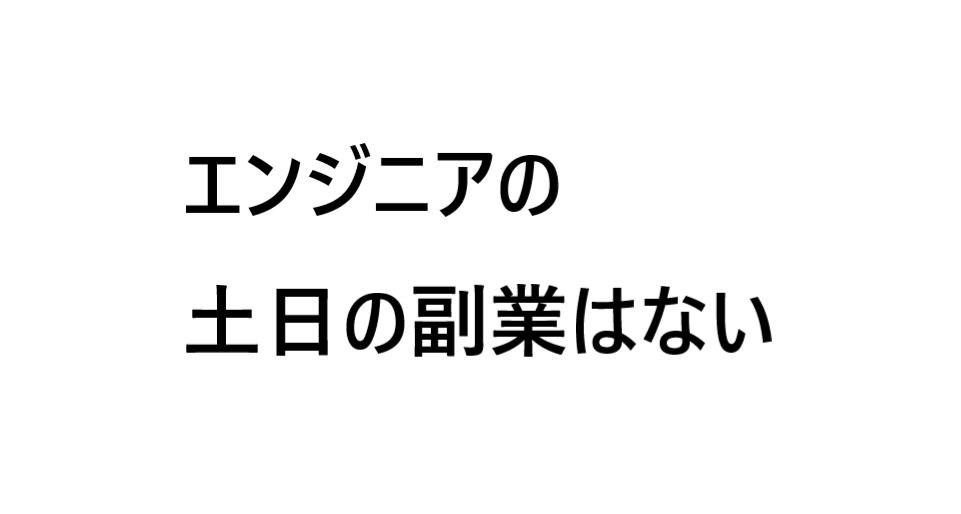
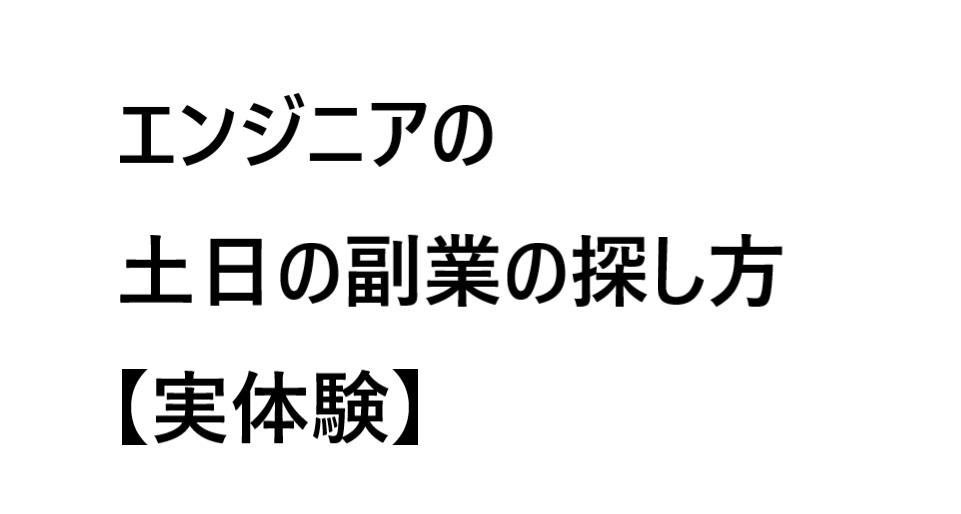
fix

Changed region(s): [[0.1249, 0.1868, 0.8117, 0.716], [0.1249, 0.716, 0.437, 0.8716]]

diff --git a/presentations/pages/index.tsx b/presentations/pages/index.tsx
@@ -10,6 +10,7 @@ type Props = {
   editorCategoryPosts: PostType[];
   blogCategoryPosts: PostType[];
   healthCategoryPosts: PostType[];
+  sideworkCategoryPosts: PostType[];
 };
 
 const useStyles = makeStyles((theme: Theme) =>
@@ -33,6 +34,7 @@ export const Index = ({
   treemapData,
   healthCategoryPosts,
   blogCategoryPosts,
+  sideworkCategoryPosts,
 }: Props) => {
   const classes = useStyles();
   return (
@@ -58,6 +60,12 @@ export const Index = ({
           categoryLink={"/category/health"}
           category={"健康"}
           orderPosts={healthCategoryPosts}
+        />
+        <Box width="100%" className={classes.pad}></Box>
+        <Left1Right3Layout
+          categoryLink={"/category/health"}
+          category={"副業"}
+          orderPosts={sideworkCategoryPosts}
         />
       </Layout>
     </>
@@ -98,11 +106,16 @@ export const getStaticProps = async () => {
   const healthCategorySlugs: Slugs = ["stretch-before-going-to-bed"];
   const healthCategoryPosts = getOrderPosts(allPosts, healthCategorySlugs);
 
+  // sidework category
+  const sideworkCategorySlugs: Slugs = ["engineer-side-job-once-a-week"];
+  const sideworkCategoryPosts = getOrderPosts(allPosts, sideworkCategorySlugs);
+
   // error handling // そのままreturnすると分かりづらいエラーが発生するため
   const error = [
     ...editorCategoryPosts,
     ...blogCategoryPosts,
     ...healthCategoryPosts,
+    ...sideworkCategoryPosts,
   ].some((p) => p === void 0);
   if (error) {
     throw Error("存在しないファイル名をCategorySlugsに指定していませんか??");
@@ -114,6 +127,7 @@ export const getStaticProps = async () => {
       blogCategoryPosts,
       treemapData,
       healthCategoryPosts,
+      sideworkCategoryPosts,
     },
   };
 };

diff --git a/components/Layout/index/Aside/index.tsx b/components/Layout/index/Aside/index.tsx
@@ -18,7 +18,7 @@ export const Aside = ({ treemapData }: Props) => {
       </Box> */}
       <Profile />
       <Box height={20}> </Box>
-      <Box width="100%" height="400px">
+      <Box width="100%" height="600px">
         <Category treemapData={treemapData} />
       </Box>
       {/* <Box height={10} bgcolor="pink" marginBottom={"45px"}>

diff --git a/_posts/engineer-side-job-once-a-week.md b/_posts/engineer-side-job-once-a-week.md
@@ -1,0 +1,135 @@
+---
+title: "エンジニアの土日の副業の探し方【実体験】"
+excerpt: "副業探しのノウハウを見かける事があまりないので、実体験を記載します。週１~２の土日はたぶん無理です。エージェント使った感じでは週１はありませんでした。実際に自分の立場で考えて見たんですが、まず土日会社やってないんですよね。誰かが副業エンジニアを雇うために土日出勤するかって言うとハードル高いと思います。なので現実的な選択肢は土日込で平日昼間にミーティングの時間を取れますということです。"
+coverImage: "/assets/blog/engineer-side-job-once-a-week/cover.png"
+date: "2021-05-09 14:55:07"
+author:
+  name: かじり
+  picture: "/me.png"
+ogImage:
+  url: "/ogp/1200x630.png"
+category:
+  first: sidework
+  second: search
+tags: [sidework, search, knowhow]
+---
+
+エンジニアなら土日に副業でもしてみるかーってなるじゃないですか？（きっとなる！）で、探すじゃないですか。ないんですよねｗホント無い。エージェント使わないで自分の足で探せよってことかも知れませんが、今はそこまでやる気が無いんです。サクッとやりたいお年頃なんです。てことで、サクッとできませんでした。が、自分の経験を知ってれば、最初のエージェント会社２，３社に費やす時間くらいは省略出来ると思います。ところで、~~トップの画像が実態に即していないわけですが、画像を作り直す気合がありませんでした。記事を整える気合で使い切りました~~気合でトップ画像を直しました。アメイジング!!
+
+以降で詳細を書いていきます🐔🥦
+
+## Table of Contents
+
+## ざっくり時系列
+
+1. ある程度仕事が落ち着く
+1. 土日が暇だな。収入増やそうかな。副業でもしてみるか
+1. エンジニアだからエンジニア系の副業探そうかな
+1. 勤務先で聴いてみる→いいよ
+1. 土日10時間くらいで探すか
+1. １社目登録して、サイトから検索してみる。みつからない。
+1. ２社目、３社目で面談の機会を得る。
+1. 土日10時間くらいでどうすかね→ないです
+1. そういうもんかー。。
+1. なにかがおかしいとおもう。４社目で面談の機会ができる
+1. 面談の聞き方を変更してみる
+1. **土日込で16時間は最低確保できて、平日昼間のミーティングが可能**
+1. 勤務先に平日昼間のミーティング無いと副業無理っぽいんだけど→いいよ
+1. 副業先との面談にこぎつけた
+
+
+## エージェント１社目くらいまで
+
+まあ最初の方に書いたとおりで、エンジニアなら副業してみようかなって思って探し始めますよね。土日に時間あるけど、[モンハン](https://amzn.to/3tyKZXL)で時間を浪費してもなにも残らないし、[プライムビデオ](https://amzn.to/2Q10Twf)見ても何も残らないし、自分を磨いておこうかなとか思い始めるわけです。[Nisa](https://www.fsa.go.jp/policy/nisa2/about/index.html)とか[iDeco](https://www.ideco-koushiki.jp/)の資産運用額増やせば不労所得で生きてけるなとか夢みるわけです（みました）。ということで副業を探します。とりあえず小さく始めてみようとしました。土日合計10時間くらいで探しました。１社目ですね。取り合えず登録して、サイト内検索してみるんですね。ヒットしたのがプログラミング講師くらいでしたね。それもいいかなと思ったんですが、今は開発してみたい気持ちだったんで、パスしました。プログラミング講師やってみたい方はいいかも知れません。[SOKUDAN](https://sokudan.work/)で講師とか検索すればヒットしますよ。てことで、自分は開発がしたかったんでパスしました。
+
+## エージェント２，３社目くらいまで
+
+てことで[エージェント１社目くらいまで](/engineer-side-job-once-a-week#%E3%82%A8%E3%83%BC%E3%82%B8%E3%82%A7%E3%83%B3%E3%83%88%EF%BC%91%E7%A4%BE%E7%9B%AE%E3%81%8F%E3%82%89%E3%81%84%E3%81%BE%E3%81%A7)は自分がやってみたい仕事は見つかりませんでした。
+とりあえずエージェント会社はいっぱいあるんで、次行きましょう。このころ、頭の中では「まあ、１社目は案件少なかったんだろうな。他のエージェント会社さがすか」って感じでした。で、２社目、３社目とりあえず登録して、検索してみるわけです。見つからないんですねｗあれ、ない。考えてみるわけです。
+
+1. 副業は求められてないのか
+1. 10時間が短すぎるのか
+1. JavaScriptが人気ないのか
+1. 土日の副業はないのか
+
+みたいな。副業自体はありましたね。10時間が短すぎるのか？これは可能性ありそうです。JavaScriptが人気無いのか？これはありえないと思ってます。現状ブラウザで動きをつけるにはJavaScriptがスタンダードのハズですし、WASMが取って代わるんじゃないかとか思ってましたが、MDNに記載がありますね。
+
+[MDN](https://developer.mozilla.org/ja/docs/WebAssembly/Concepts)
+
+> WebAssembly は JavaScript と異なる言語ですが、その置き換えを意図していません。その代わり、JavaScript の足りない所を補填して併用し、ウェブ開発者に双方の以下のような利益を提供する事を狙いとしています:
+
+将来どうなるかわかりませんが、現状は補填、併用って感じなんでWASMはJavaScriptのサポートだと思ってます。
+土日の副業はないのか？ないかといえばありますね。「副業は求められてないのか」と「土日の副業はないのか」は同じような疑問で大雑把過ぎました。
+
+てことで2、３社目で発生した疑問は10時間では短すぎるのでは？みたいなことをちらっと思っていましたが、あまり深く考えず電話面談してみるわけです。
+
+同じようなこと聞かれますね。「どのような副業をお探しですか」、「ご経験年数は？」みたいな。これに対して、
+
+- ３年目ですね
+- 土日で10時間くらいで探してます
+
+みたいな感じで返答するわけです。すると
+
+「現在弊社では**土日のみの案件が大変少なく**なっております」
+
+で、電話の終わりに、探してみてメールするからっていわれますが、見つかりませんでしたって返ってくるわけですねｗ
+そうなんかー。どうしようかなと考えます。
+
+「**土日のみの案件が大変少なく**」
+
+面談中には、ぱっと返しが見つからず。なるほどそうなんですねで終わっちゃったんですが、分解すると。
+
+- 土日の案件はない→土日じゃなきゃありそう
+- 土日のみ？土日込ならあるんじゃないか？
+
+て考えるわけです。これらを生かして次に進みます
+
+## ４社目で面談するあたり
+
+てことでエージェント４社目です。今回も登録してサイトを探すわけですが、土日のみ、週１０時間だとやはりなさそうです。面談に期待します。で面談ですが、ここらへんから面談内容をメモし始めましたよ。聞かれたのは
+
+- スクラム経験ありますか？
+- レビューしてるか？
+- デザイナーとやり取りしてるか？
+- 設計からテストまでできるか？
+- cssフレームワークは使ってるか？
+- サーバーサイドのテスト経験は？
+- awsできる？
+- dbとか対応できる？
+
+で、まあある程度いけそうだなと判断されたっぽいので、どのくらい対応できそうか？とか聞かれるわけですが、どのくらい対応できるか？に対して、週10時間と答えるとそこで終わるだろうというのは[2、３社目の面談の経験](/engineer-side-job-once-a-week#%E3%82%A8%E3%83%BC%E3%82%B8%E3%82%A7%E3%83%B3%E3%83%88%EF%BC%92%EF%BC%8C%EF%BC%93%E7%A4%BE%E7%9B%AE%E3%81%8F%E3%82%89%E3%81%84%E3%81%BE%E3%81%A7)で理解していたので、質問で返すわけです。「土日に対応だと他社エージェントでは見つからなかった」、「どのくらい対応できれば案件があるのか」、そういったことを聴いていくわけです。で聞き取りできたのが、
+
+- 土日に副業だと、副業先のメンバーとあなたでコミュニケーションがとれない
+- 平日昼間のミーティングができればうれしい
+- 土日もしくは平日の夜間に作業してもよいが、週16～24hくらいは最低稼働してほしい
+- slackでの短い連絡は平日昼間でも可能か
+
+て感じでした。なので、事前に勤務先に聴いておいた「平日昼間のミーティング」については許可を得ていたのでできると返答。あとは、週10時間予定だったが、16時間ならまあいけるかと思ったので承諾しました。
+
+以上によって、案件の紹介をしていただけました。はつですね。よかったよかった。
+
+## まとめ
+
+土日だけの副業はたぶん無理です。探すなら、**土日込で16時間は最低確保できて、平日昼間のミーティングが可能**という探し方にしましょう。
+３社くらいエージェントを使ってみて判断したのですが、１社目[Sokudan](https://sokudan.work/)、２社目[ItProPartners](https://itpropartners.com/)、３社目[シューマツワーカー](https://shuuumatu-worker.jp/)これらに、JavaScriptの実務経験３年、現在はスタートアップ企業で設計から実装、テスト、運用までやってますみたいな感じで探しても案件が見つからなかったので、４社目[FindyFreelance](https://freelance.findy-code.io/)の時にエージェントの方と面談させてもらって、**土日込で16時間は最低確保できて、平日昼間のミーティングが可能**という方法に落ち着きました。
+また、自分の勤務先で副業エンジニアを雇うとしたら？と考えると、自分の勤務先は土日休みなので、土日に作業してくれてもいいけど、自社のみんなとミーティングに出てくれて、できれば平日昼間でもチャットツールの反応はしてほしいな。って思います。なのでやはり最低でも、**土日込で16時間は最低確保できて、平日昼間のミーティングが可能**。可能であれば**平日昼間でもチャットツールの反応はしてほしい**になると思いました。
+
+今思うと、２社目、３社目の面談のときに、平日昼間に対応できませんかね？みたいなことを聴いてくれたら、なるほど考えてみようかな。となったと思うのですが、全く聞かれませんでした。いや、やっぱり自分で複数社に聴いてみたからこそ、平日昼間でもいいかーって考えるようになったのかも知れない。
+
+[ハッピーシュガーライフ](https://archive.genco.co.jp/happysugarlife/)(公式)[^1]が全員バットエンドでびびった
+[スライム300](https://slime300-anime.com/)(公式)[^2]いいよ。
+
+。。記事が増えたことによってカテゴリ一覧の文字がかぶってますね。。。悲しいですw
+
+[^1]: [ハッピーシュガーライフ](https://amzn.to/3uyXDHF) ←プライムビデオ見てる人
+[^2]: [スライム300](https://amzn.to/33sMaxk) ←プライムビデオ見てる人
+
+## 番外編　週1日とか週2～3日とか週4～5日とか何なん
+
+4社目の面談の時に聴いたのですが、エージェント会社によって基準は違うと思うという前提で
+
+- １日１時間を週７日やったのは週７日働けるとは言わない
+- １日を８時間と考える
+- つまり、１週間の稼働時間/8
+
+最初の１日１時間を週７日のばあいは 7/8なので１日に満たないわけです

diff --git a/_posts/stretch-before-going-to-bed.md b/_posts/stretch-before-going-to-bed.md
@@ -77,4 +77,7 @@ width="100%"height="100%"style="left:0;top:0;position:absolute;" frameborder="0"
 
 spotifyの広告のゆりやんが高音質でうけましたｗ
 
-[長瀞さん](https://www.nagatorosan.jp/)と[EASY LOVE](https://www.youtube.com/watch?v=J51CxEEYq50)いいよ。[ドラゴン家](https://doraie.com/)、[ロールプレイング](https://www.youtube.com/watch?v=iZHOLVmUMCU)もいいよ
+[長瀞さん](https://www.nagatorosan.jp/)(公式)[^1]と[EASY LOVE](https://www.youtube.com/watch?v=J51CxEEYq50)(youtube)いいよ。[ドラゴン家](https://doraie.com/)(公式)[^2]と[ロールプレイング](https://www.youtube.com/watch?v=iZHOLVmUMCU)(youtube)もいいよ
+
+[^1]: [長瀞さん](https://amzn.to/2SDHnHe) ←プライムビデオ見てる人
+[^2]: [ドラゴン家](https://amzn.to/2StI2e8) ←プライムビデオ見てる人

diff --git a/_posts/obsidian-moc-usage-2021.md b/_posts/obsidian-moc-usage-2021.md
@@ -156,4 +156,4 @@ MOCは "Relational Positioning "を推奨しています。空間的な関係性
 ## あとがき
 
 obsidian使い始めたら[[入力しよう。便利だよ。[[# [[^ とかいいよ。
-[ぐだふわエブリデー](https://www.google.com/search?q=%E3%81%90%E3%81%A0%E3%81%B5%E3%82%8F%E3%82%A8%E3%83%96%E3%83%AA%E3%83%87%E3%83%BC&rlz=1C1QABZ_jaJP893JP893&oq=%E3%81%90%E3%81%A0%E3%83%95%E3%83%AF&aqs=chrome.1.69i57j0i4i131i433j0i4l4j0i4i10j0i4l3.2582j0j4&sourceid=chrome&ie=UTF-8)いいよ。
+[ぐだふわエブリデー](https://www.youtube.com/watch?v=Cgs9QfbGxPQ)(youtube)いいよ。
